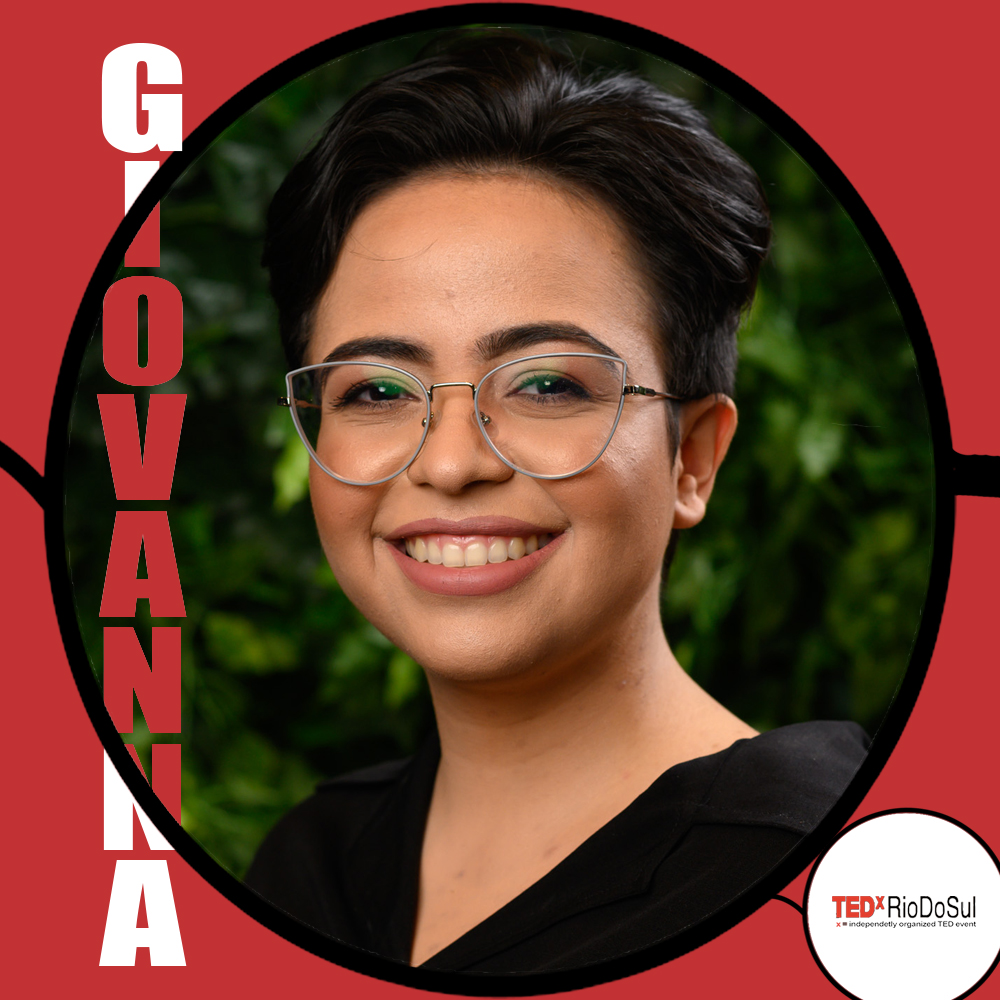
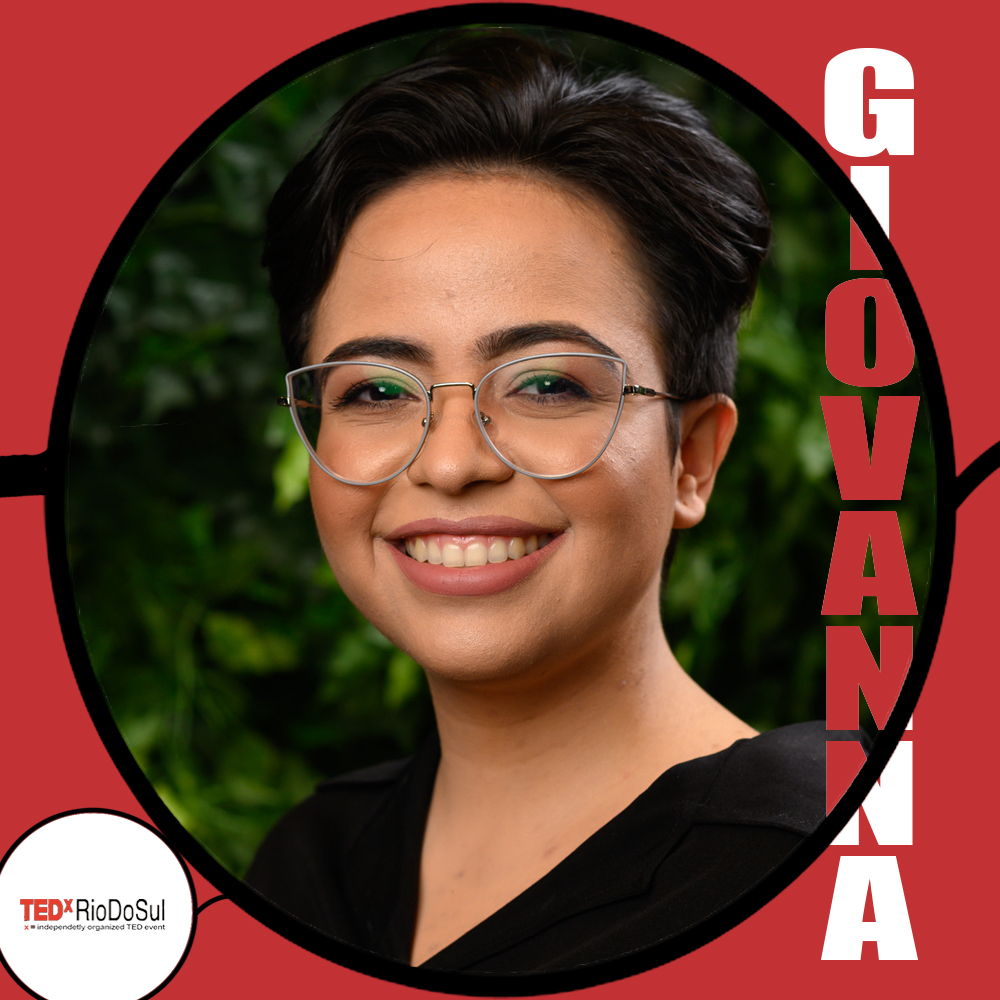
Adicionada Speaker Giovanna

diff --git a/index.html b/index.html
@@ -274,14 +274,15 @@
             </h3>
         </div>
     </div>
+
     <div class="row justify-content-center no-gutters">
         <div class="col-md-3 col-sm-6">
             <div class="speaker_box more-info">
                 <div class="speaker_img">
-                    <img src="assets/img/speakers/Patrick.jpg" alt="Jean Patrick">
-                    <a href="https://www.instagram.com/jeanpatrick.ijp/" target="_blank">
+                    <img src="assets/img/speakers/Giovanna.jpg" alt="Giovanna Nicolau">
+                    <a href="https://www.instagram.com/ginicolaupsi/" target="_blank">
                         <div class="info_box">
-                            <h5 class="name"> # Jean Patrick #</h5>
+                            <h5 class="name"> # Giovanna Nicolau #</h5>
                             <p class="position"></p>
                         </div>
                     </a>
@@ -291,10 +292,10 @@
         <div class="col-md-3 col-sm-6">
             <div class="speaker_box more-info">
                 <div class="speaker_img">
-                    <img src="assets/img/speakers/ted_user_2.jpg" alt="ted user">
-                    <a href="#" target="_blank">
+                    <img src="assets/img/speakers/Patrick.jpg" alt="Jean Patrick">
+                    <a href="https://www.instagram.com/jeanpatrick.ijp/" target="_blank">
                         <div class="info_box">
-                            <h5 class="name"> # Speaker Não Divulgado #</h5>
+                            <h5 class="name"> # Jean Patrick #</h5>
                             <p class="position"></p>
                         </div>
                     </a>
